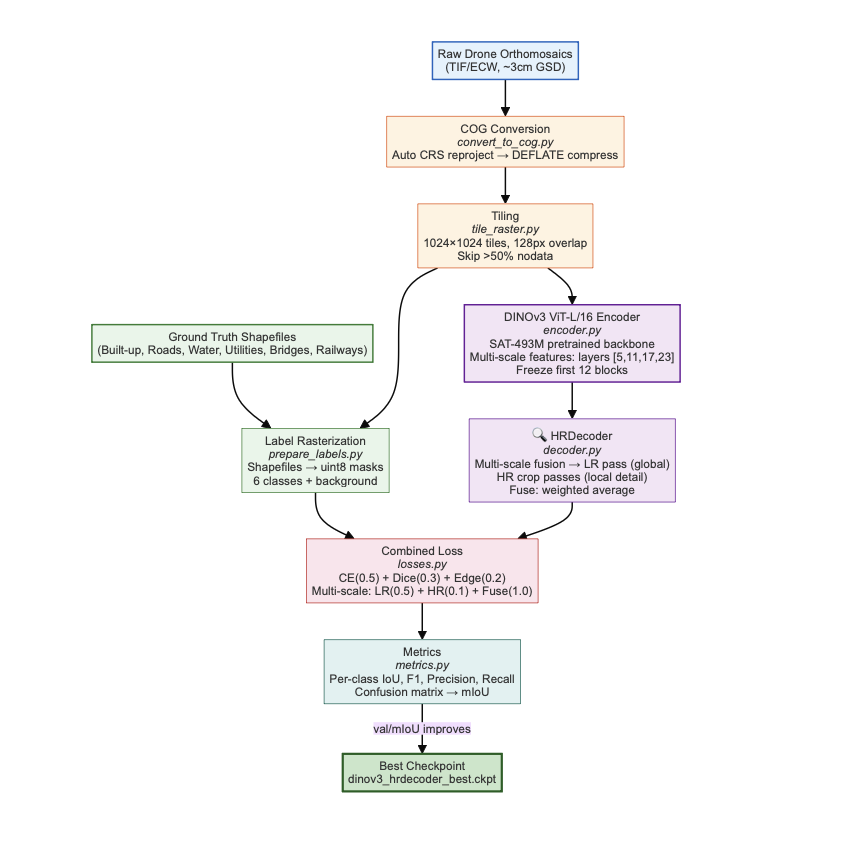
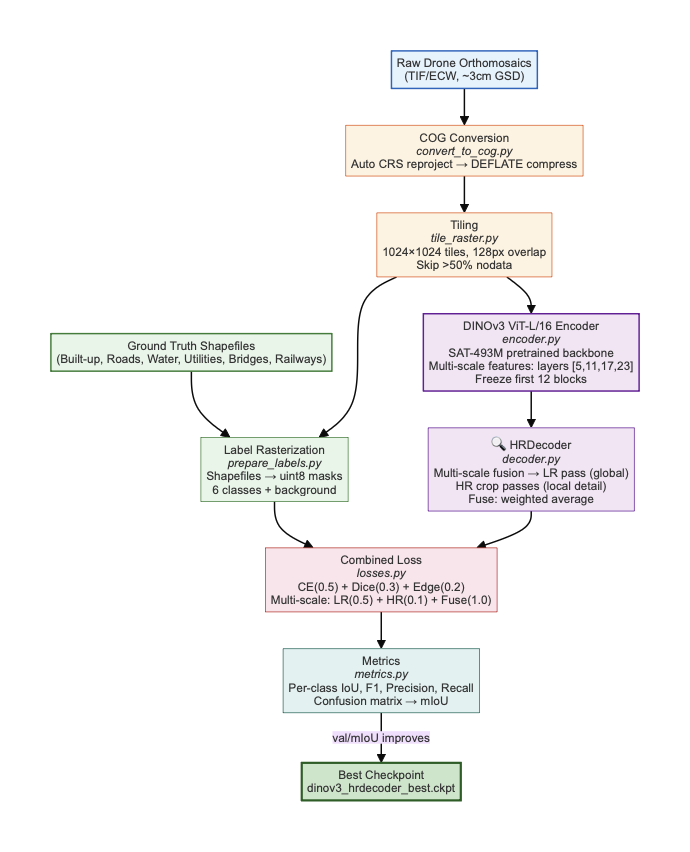
image filters

Changed region(s): [[0.0609, 0.0309, 0.9435, 0.9572], [0.487, 0.4632, 0.5174, 0.4941]]

diff --git a/dinov3_hrdecoder_pipeline/models/README.md b/dinov3_hrdecoder_pipeline/models/README.md
@@ -4,7 +4,7 @@ The model itself. None of these files are CLI entrypoints — they are
 imported by `training/` and `inference/`. They read hyper-parameters from
 `configs/train.yaml` (the `model`, `loss`, `training`, `classes` sections).
 
-![Model overview: input tile 1024×1024×3 → DINOv3 ViT-L/16 encoder (features) → HR Decoder (logits) → Loss](../../docs/images/Architecture.jpg)
+![Model overview: input tile 1024×1024×3 → DINOv3 ViT-L/16 encoder (features) → HR Decoder (logits) → Loss](../../docs/images/Architecture.png)
 
 | File | Role |
 |---|---|
@@ -19,7 +19,7 @@ imported by `training/` and `inference/`. They read hyper-parameters from
 
 ## `encoder.py` — `DINOv3Encoder(nn.Module)`
 
-![Encoder: image → Patch Embed (16×16 patches → 64×64 tokens) → blocks 0-5 & 6-11 (frozen ❄) and 12-17 & 18-23 (fine-tuned 🔥); each of the 4 intermediate features (64×64×1024) passes a projection head LN→Linear(1024→256)→GELU](../../docs/images/encoder.jpg)
+![Encoder: image → Patch Embed (16×16 patches → 64×64 tokens) → blocks 0-5 & 6-11 (frozen ❄) and 12-17 & 18-23 (fine-tuned 🔥); each of the 4 intermediate features (64×64×1024) passes a projection head LN→Linear(1024→256)→GELU](../../docs/images/encoder.png)
 
 Constructor: `arch="vitl16", intermediate_layers=[5,11,17,23],
 freeze_first_n_blocks=12, embed_dim=1024, out_dim=256, pretrained=True,
@@ -33,7 +33,7 @@ weights="LVD1689M"` (the config passes `weights="SAT493M"`).
 
 ## `decoder.py` — `HRDecoder` + factory
 
-![HRDecoder: encoder projected features → Multi-Scale Fusion (concat 256×4 → conv 256) → LR pass (SegHead→logits, bilinear to target) and HR pass (random crops, SegHead→logits, paste back and average) → fused logits 1024×1024×7 → loss](../../docs/images/decoder.jpg)
+![HRDecoder: encoder projected features → Multi-Scale Fusion (concat 256×4 → conv 256) → LR pass (SegHead→logits, bilinear to target) and HR pass (random crops, SegHead→logits, paste back and average) → fused logits 1024×1024×7 → loss](../../docs/images/decoder.png)
 
 Building blocks: `ConvBNReLU`, `MultiScaleFusion` (concat 4×256 →
 `Conv1×1(1024→256)+BN+ReLU → Conv3×3(256→256)`), `SegHead`
@@ -58,7 +58,7 @@ and refuse incompatible ones.
 
 ## `losses.py` — `CombinedLoss`
 
-![Loss composition: Cross Entropy + Dice Loss + Edge Loss computed on the logits, combined multi-scale (LR + HR + Fuse) into the training loss](../../docs/images/loss.jpg)
+![Loss composition: Cross Entropy + Dice Loss + Edge Loss computed on the logits, combined multi-scale (LR + HR + Fuse) into the training loss](../../docs/images/loss.png)
 
 `total = 0.5·CE + 0.3·Dice + 0.2·Edge` (weights from `loss:` config), each
 returned in a dict `{loss, ce_loss, dice_loss, edge_loss}`.

diff --git a/README.md b/README.md
@@ -83,7 +83,7 @@ python -m dinov3_hrdecoder_pipeline.inference.run_pipeline \
 
 **End-to-end pipeline — raw orthomosaic → GIS-ready GeoPackage:**
 
-![End-to-end pipeline: Input (COG → tile) → Model (DINOv3 encoder → HRDecoder → tile masks) → Output (stitch → evaluate → vectorise → GeoPackage)](docs/images/flow2.jpg)
+![End-to-end pipeline: Input (COG → tile) → Model (DINOv3 encoder → HRDecoder → tile masks) → Output (stitch → evaluate → vectorise → GeoPackage)](docs/images/flow2.png)
 
 **What it produces — a raw drone tile in, GIS-ready vector features out:**
 
@@ -95,7 +95,7 @@ python -m dinov3_hrdecoder_pipeline.inference.run_pipeline \
 
 **Model — DINOv3 ViT-L/16 encoder → HRDecoder → multi-term loss:**
 
-![Model architecture: input tile → DINOv3 ViT-L/16 encoder (partially frozen) → HR Decoder → logits → loss](docs/images/Architecture.jpg)
+![Model architecture: input tile → DINOv3 ViT-L/16 encoder (partially frozen) → HR Decoder → logits → loss](docs/images/Architecture.png)
 
 - **Encoder**: DINOv3 ViT-L/16 (~300 M params), pretrained on the
   satellite-imagery SAT-493M dataset. Multi-scale intermediate